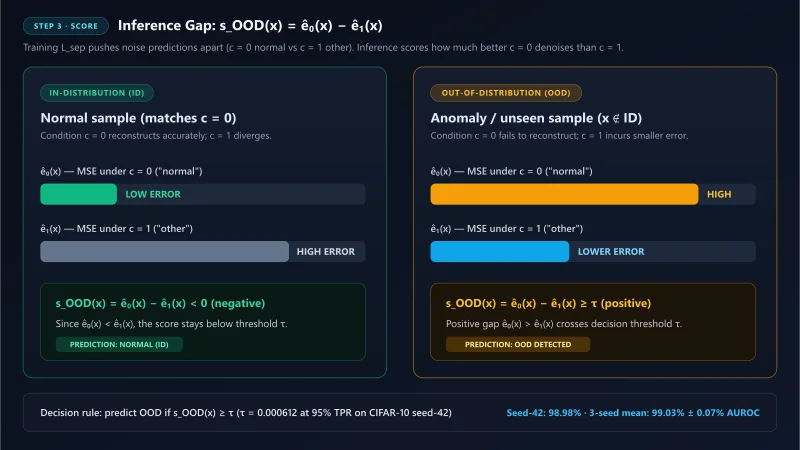
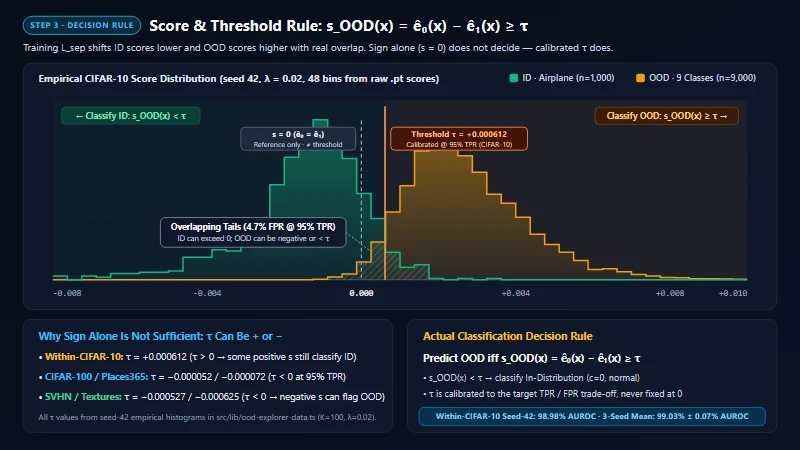
fix(research): clarify threshold decision rule and overlap across copy and diagrams

diff --git a/src/components/Research.tsx b/src/components/Research.tsx
@@ -155,18 +155,18 @@ const formulaVisuals: Array<{ previewSrc: string; src: string; width: number; he
     width: 800,
     height: 450,
     alt: {
-      en: 'Inference score diagram s_OOD(x) = e_0(x) - e_1(x) comparing c=0 and c=1 reconstruction error',
-      de: 'Inferenz-Score-Diagramm s_OOD(x) = e_0(x) - e_1(x) aus dem Rekonstruktionsfehler-Vergleich',
-      fr: "Diagramme du score d'inférence s_OOD(x) = e_0(x) - e_1(x) comparant les erreurs c=0 et c=1",
-      es: 'Diagrama de puntuación s_OOD(x) = e_0(x) - e_1(x) comparando errores de reconstrucción',
-      ar: 'مخطط درجة الاستدلال s_OOD(x) = e_0(x) - e_1(x) لمقارنة أخطاء إعادة البناء',
+      en: 'Empirical score distributions and threshold decision rule s_OOD(x) = e_0(x) - e_1(x) >= tau showing ID/OOD overlap and positive or negative calibrated thresholds tau',
+      de: 'Empirische Score-Verteilungen und Schwellenregel s_OOD(x) = e_0(x) - e_1(x) >= tau mit Überlappung sowie positiven oder negativen Schwellenwerten tau',
+      fr: 'Distributions empiriques et règle de décision s_OOD(x) = e_0(x) - e_1(x) >= tau montrant le chevauchement ID/OOD et des seuils tau positifs ou négatifs',
+      es: 'Distribuciones empíricas y regla de decisión s_OOD(x) = e_0(x) - e_1(x) >= tau con solapamiento y umbrales tau positivos o negativos',
+      ar: 'توزيعات الدرجات التجريبية وقاعدة القرار s_OOD(x) = e_0(x) - e_1(x) >= tau مع توضيح التداخل وإمكانية كون العتبة tau موجبة أو سالبة',
     },
     caption: {
-      en: 'Step 3: inference score s_OOD(x) = e_0(x) - e_1(x) flags OOD when >= threshold tau',
-      de: 'Schritt 3: Inferenz-Score s_OOD(x) = e_0(x) - e_1(x) erkennt OOD ab Schwelle tau',
-      fr: 'Étape 3 : le score s_OOD(x) = e_0(x) - e_1(x) signale OOD lorsque >= seuil tau',
-      es: 'Paso 3: la puntuación s_OOD(x) = e_0(x) - e_1(x) detecta OOD si >= umbral tau',
-      ar: 'الخطوة 3: درجة الاستدلال s_OOD(x) = e_0(x) - e_1(x) تكشف OOD عند تجاوز العتبة tau',
+      en: 'Step 3: score s_OOD(x) = e_0(x) - e_1(x) flags OOD when >= calibrated threshold tau (may be + or -)',
+      de: 'Schritt 3: s_OOD(x) = e_0(x) - e_1(x) erkennt OOD ab kalibrierter Schwelle tau (+ oder - möglich)',
+      fr: 'Étape 3 : s_OOD(x) = e_0(x) - e_1(x) signale OOD si >= seuil calibré tau (+ ou - possible)',
+      es: 'Paso 3: s_OOD(x) = e_0(x) - e_1(x) detecta OOD si >= umbral calibrado tau (+ o -)',
+      ar: 'الخطوة 3: تصنّف s_OOD(x) = e_0(x) - e_1(x) العينة كـ OOD عند >= العتبة المعايرة tau (موجبة أو سالبة)',
     },
   },
 ]
@@ -229,18 +229,24 @@ const copy = {
   },
   formulaLabel: { en: 'Novel contribution - separation loss', de: 'Neuer Beitrag - Separation Loss', fr: 'Contribution nouvelle - separation loss', es: 'Contribución nueva - separation loss', ar: 'المساهمة الجديدة - خسارة الفصل' },
   plainIdea: {
-    en: 'Plain idea: train with L_sep so c=0 ("normal") and c=1 ("other") disagree, then score s_OOD(x) = e_0(x) - e_1(x). ID inputs reconstruct better under c=0 (negative score); OOD inputs have higher e_0 than e_1 (score >= tau).',
-    de: 'Grundidee: Training mit L_sep trennt c=0 („normal“) und c=1 („andere“); bei Inferenz misst s_OOD(x) = e_0(x) - e_1(x) die Differenz. ID liefert e_0 < e_1 (negativ); OOD liefert e_0 > e_1 (>= tau).',
-    fr: "Idée clé : L_sep sépare c=0 (« normal ») et c=1 (« autre ») à l'entraînement ; à l'inférence, s_OOD(x) = e_0(x) - e_1(x) compare les erreurs. ID donne e_0 < e_1 (négatif) ; OOD donne e_0 > e_1 (>= tau).",
-    es: 'Idea clave: L_sep separa c=0 («normal») y c=1 («otras») al entrenar; en inferencia s_OOD(x) = e_0(x) - e_1(x) compara los errores. En ID resulta negativo; en OOD e_0 > e_1 (>= tau).',
-    ar: 'الفكرة باختصار: تفصل خسارة التدريب L_sep بين c=0 (طبيعي) وc=1 (غيره)، وعند الاستدلال تقيس s_OOD(x) = e_0(x) - e_1(x) الفرق. للبيانات الطبيعية e_0 < e_1 (سالب)، وللشاذة e_0 > e_1 (>= tau).',
+    en: 'Plain idea: train with L_sep so c=0 ("normal") and c=1 ("other") diverge, shifting ID scores e_0(x) - e_1(x) lower and OOD scores higher with some overlap. At inference, classify as OOD when s_OOD(x) = e_0(x) - e_1(x) >= tau (calibrated threshold tau may be positive or negative).',
+    de: 'Grundidee: Training mit L_sep trennt c=0 („normal“) und c=1 („andere“), sodass ID-Scores e_0(x) - e_1(x) niedriger und OOD-Scores höher liegen (bei möglicher Überlappung). Bei Inferenz gilt OOD wenn s_OOD(x) = e_0(x) - e_1(x) >= tau (das kalibrierte tau kann positiv oder negativ sein).',
+    fr: "Idée clé : L_sep éloigne c=0 (« normal ») et c=1 (« autre »), décalant les scores ID e_0(x) - e_1(x) vers le bas et les scores OOD vers le haut, avec un certain chevauchement. À l'inférence, un exemple est classé OOD si s_OOD(x) = e_0(x) - e_1(x) >= tau (le seuil calibré tau peut être positif ou négatif).",
+    es: 'Idea clave: L_sep separa c=0 («normal») y c=1 («otras»), desplazando los puntajes ID e_0(x) - e_1(x) hacia abajo y los OOD hacia arriba, con cierto solapamiento. En inferencia se clasifica como OOD cuando s_OOD(x) = e_0(x) - e_1(x) >= tau (el umbral calibrado tau puede ser positivo o negativo).',
+    ar: 'الفكرة باختصار: تدريب L_sep يفصل بين c=0 (طبيعي) وc=1 (غيره)، فتنزاح درجات البيانات الطبيعية e_0(x) - e_1(x) نحو قيم أقل ودرجات OOD نحو قيم أعلى مع بقاء بعض التداخل. عند الاستدلال، تُصنَّف العينة كـ OOD إذا كان s_OOD(x) = e_0(x) - e_1(x) >= tau (وقد تكون العتبة المعايرة tau موجبة أو سالبة).',
   },
   step1: { en: 'Learn to denoise', de: 'Entrauschen lernen', fr: 'Apprendre à dénoiser', es: 'Aprender a limpiar ruido', ar: 'تعلم إزالة الضوضاء' },
   step1Text: { en: 'Denoise x under c=0 (normal) and c=1 (other).', de: 'Entrausche x unter c=0 (normal) und c=1 (andere).', fr: 'Débruiter x sous c=0 (normal) et c=1 (autre).', es: 'Limpiar ruido de x bajo c=0 (normal) y c=1 (otras).', ar: 'إزالة الضوضاء تحت الشرطين c=0 وc=1.' },
   step2: { en: 'Push explanations apart', de: 'Erklärungen trennen', fr: 'Éloigner les explications', es: 'Separar explicaciones', ar: 'إبعاد التفسيرات' },
   step2Text: { en: 'Maximize distance between c=0 and c=1 noise predictions during training (L_sep).', de: 'Maximiere im Training den Abstand zwischen den Vorhersagen c=0 und c=1 (L_sep).', fr: "Maximiser l'écart entre les prédictions c=0 et c=1 à l'entraînement (L_sep).", es: 'Maximizar la distancia entre predicciones c=0 y c=1 al entrenar (L_sep).', ar: 'زيادة المسافة بين تنبؤات الضوضاء لـ c=0 وc=1 أثناء التدريب (L_sep).' },
   step3: { en: 'Score s_OOD(x) = e_0 - e_1', de: 'Score s_OOD(x) = e_0 - e_1', fr: 'Score s_OOD(x) = e_0 - e_1', es: 'Score s_OOD(x) = e_0 - e_1', ar: 'الدرجة s_OOD(x) = e_0 - e_1' },
-  step3Text: { en: 'Flag OOD when e_0(x) exceeds e_1(x): s_OOD(x) = e_0(x) - e_1(x) >= tau.', de: 'Erkenne OOD wenn e_0(x) größer als e_1(x) ist: s_OOD(x) = e_0(x) - e_1(x) >= tau.', fr: 'Signaler OOD quand e_0(x) dépasse e_1(x) : s_OOD(x) = e_0(x) - e_1(x) >= tau.', es: 'Detectar OOD cuando e_0(x) supera a e_1(x): s_OOD(x) = e_0(x) - e_1(x) >= tau.', ar: 'كشف OOD عندما يتجاوز e_0(x) قيمة e_1(x): s_OOD(x) = e_0(x) - e_1(x) >= tau.' },
+  step3Text: {
+    en: 'Compare s_OOD(x) = e_0(x) - e_1(x) against calibrated threshold tau (which may be + or -, as distributions overlap): flag OOD when s_OOD(x) >= tau.',
+    de: 'Vergleiche s_OOD(x) = e_0(x) - e_1(x) mit der kalibrierten Schwelle tau (kann + oder - sein, da Verteilungen überlappen): OOD ab s_OOD(x) >= tau.',
+    fr: 'Comparer s_OOD(x) = e_0(x) - e_1(x) au seuil calibré tau (+ ou - possible car les distributions se chevauchent) : OOD si s_OOD(x) >= tau.',
+    es: 'Comparar s_OOD(x) = e_0(x) - e_1(x) con el umbral calibrado tau (puede ser + o -, pues hay solapamiento): OOD si s_OOD(x) >= tau.',
+    ar: 'قارن s_OOD(x) = e_0(x) - e_1(x) مع العتبة المعايرة tau (قد تكون + أو - مع وجود تداخل): تُعد العينة OOD عندما s_OOD(x) >= tau.',
+  },
   totalLoss: { en: 'Training loss L_total', de: 'Trainingsverlust L_total', fr: "Perte d'entraînement L_total", es: 'Pérdida de entrenamiento L_total', ar: 'خسارة التدريب L_total' },
   denoiseLoss: { en: 'L_denoise (MSE)', de: 'L_denoise (MSE)', fr: 'L_denoise (MSE)', es: 'L_denoise (MSE)', ar: 'L_denoise (MSE)' },
   sepLoss: { en: 'lambda * L_sep  |  Inference: s_OOD(x) = e_0(x) - e_1(x)', de: 'lambda * L_sep  |  Inferenz: s_OOD(x) = e_0(x) - e_1(x)', fr: 'lambda * L_sep  |  Inférence : s_OOD(x) = e_0(x) - e_1(x)', es: 'lambda * L_sep  |  Inferencia: s_OOD(x) = e_0(x) - e_1(x)', ar: 'lambda * L_sep  |  الاستدلال: s_OOD(x) = e_0(x) - e_1(x)' },

diff --git a/src/components/OodDemo.tsx b/src/components/OodDemo.tsx
@@ -380,7 +380,7 @@ export default function OodDemo() {
           </div>
           <div>
             <strong style={{ color: 'var(--cd-success)' }}>Eq. 3.3 (OOD Score):</strong>{' '}
-            s_OOD(x) = ê₀(x) − ê₁(x) &gt; τ ⇒ OOD
+            s_OOD(x) = ê₀(x) − ê₁(x) ≥ τ ⇒ OOD
           </div>
         </div>
       </div>
@@ -886,7 +886,10 @@ export default function OodDemo() {
                   c=0: <strong>{activeTimestep.idC0Mean.toFixed(4)}</strong> · c=1: <strong>{activeTimestep.idC1Mean.toFixed(4)}</strong>
                 </div>
                 <div style={{ fontFamily: 'var(--font-mono)', fontSize: 11, color: 'var(--cd-success)', marginTop: 2 }}>
-                  ê₀ − ê₁ = {(activeTimestep.idC0Mean - activeTimestep.idC1Mean).toFixed(5)} (ID &lt; 0)
+                  Mean ê₀ − ê₁ = {(() => {
+                    const diff = activeTimestep.idC0Mean - activeTimestep.idC1Mean
+                    return `${diff >= 0 ? '+' : ''}${diff.toFixed(5)}`
+                  })()}
                 </div>
               </div>
 
@@ -895,8 +898,11 @@ export default function OodDemo() {
                 <div style={{ fontFamily: 'var(--font-mono)', fontSize: 13, color: 'var(--cd-fg)', marginTop: 4 }}>
                   c=0: <strong>{activeTimestep.oodC0Mean.toFixed(4)}</strong> · c=1: <strong>{activeTimestep.oodC1Mean.toFixed(4)}</strong>
                 </div>
-                <div style={{ fontFamily: 'var(--font-mono)', fontSize: 11, color: '#f97316', marginTop: 2 }}>
-                  ê₀ − ê₁ = +{(activeTimestep.oodC0Mean - activeTimestep.oodC1Mean).toFixed(5)} (OOD &gt; 0)
+                <div style={{ fontFamily: 'var(--font-mono)', fontSize: 11, color: 'var(--cd-warn)', marginTop: 2 }}>
+                  Mean ê₀ − ê₁ = {(() => {
+                    const diff = activeTimestep.oodC0Mean - activeTimestep.oodC1Mean
+                    return `${diff >= 0 ? '+' : ''}${diff.toFixed(5)}`
+                  })()}
                 </div>
               </div>
 

diff --git a/specs/005-portfolio-credibility-and-mobile/IMPLEMENTATION-REPORT.md b/specs/005-portfolio-credibility-and-mobile/IMPLEMENTATION-REPORT.md
@@ -49,11 +49,10 @@
 
 ### Priority 4 — Research Previews & Verified Score Convention
 - **Verified thesis score convention**:
-  - Confirmed in `public/Mohammed_Ahmed_Thesis_Diffusion_OOD_Detection.pdf` (Eq. 3.3, pp. 44–45, 57–59) and `src/lib/ood-explorer-data.ts` that `s_OOD(x) = ê₀(x) - ê₁(x)` with `c=0` (`normal`/`airplane`) and `c=1` (`other`/`rest`). ID samples yield lower `ê₀` than `ê₁` (negative score); OOD samples yield higher `ê₀` than `ê₁` (`s_OOD(x) >= τ` predicts OOD, `τ = 0.000612` at 95% TPR on CIFAR-10 seed-42).
+  - Confirmed in `public/Mohammed_Ahmed_Thesis_Diffusion_OOD_Detection.pdf` (Eq. 3.3, pp. 44–45, 57–59) and `src/lib/ood-explorer-data.ts` that `s_OOD(x) = ê₀(x) - ê₁(x)` with `c=0` (`normal`/`airplane`) and `c=1` (`other`/`rest`). Training with `L_sep` shifts ID scores lower and OOD scores higher with real distribution overlap (`4.7%` FPR at `95%` TPR on Within-CIFAR-10 seed 42; `14.8%`–`30.1%` across external benchmarks). Inference classifies OOD when `s_OOD(x) >= τ`, where the calibrated threshold `τ` may be positive or negative (`+0.000612` on Within-CIFAR-10, `-0.000052` on CIFAR-100, `-0.000072` on Places365, `-0.000290` on FashionMNIST, `-0.000625` on Textures, `-0.000527` on SVHN at `95%` TPR). Also aligned `src/components/OodDemo.tsx` (`>= τ` rule and signed cohort means on Tab 2).
 - **Accurate Step 3 graphic & lightweight previews**:
-  - Generated `public/research/separation-gap-score.png` (`1672×941`, `67,830` bytes) replacing the inaccurate direction in the prior Step 3 asset (`separation-gap-clean.png` retained untouched in `public/research/`).
-  - Generated `800×450` WebP inline previews (`separation-denoise-preview.webp` `27,286` B, `separation-apart-preview.webp` `15,368` B, `separation-gap-preview.webp` `28,452` B; `71,106` bytes combined vs. `4.22 MB` original inline PNGs).
-  - Updated `src/components/Research.tsx` with `loading="lazy"`, `decoding="async"`, explicit intrinsic `width`/`height`, inline `previewSrc` tiles, full-resolution lightbox `src` loaded only on click, and updated 5-locale copy for `plainIdea`, `step1Text`, `step2Text`, `step3`, `step3Text`, and `sepLoss`.
+  - Updated `public/research/separation-gap-score.png` (`1672×941`) and `public/research/separation-gap-preview.webp` (`800×450`) to plot the empirical CIFAR-10 seed-42 ID/OOD histograms, highlight distribution overlap, distinguish `s = 0` from calibrated `τ`, and show both `+τ` and `−τ` operating points (`separation-gap-clean.png` retained untouched in `public/research/`).
+  - Updated `src/components/Research.tsx` with `loading="lazy"`, `decoding="async"`, explicit intrinsic `width`/`height`, inline `previewSrc` tiles (`separation-denoise-preview.webp`, `separation-apart-preview.webp`, `separation-gap-preview.webp`), full-resolution lightbox `src` loaded only on click, and updated 5-locale copy for `alt`, `caption`, `plainIdea`, and `step3Text`.
 
 ### Priority 5 — Recruiter Positioning & `1200×630` Share Cards
 - **Recruiter positioning**:
@@ -87,26 +86,26 @@
   - `0` horizontal overflows, expected per-route `og:image`/`twitter:image`, mobile hamburger drawer open cleanly (`overflowX: false`), Chatbot starter chips free of Faultrix (`0` Faultrix hits), and interactive `#ood-explorer` 3-tab check (`check-ood-explorer.mjs` at `375px` light theme) with `0` horizontal overflow.
 - Lazy image & lightbox behavior:
   - Initial load requested only `/headshot.jpg` and `/icon.svg`.
-  - Scrolling to `#research` requested only the 3 `.webp` previews (`71,106` B total) and CIFAR charts; **0** full-resolution formula PNGs loaded prior to interaction.
-  - Clicking Step 3 opened `.cd-lightbox-inner` and loaded `/research/separation-gap-score.png` (`1672×941`, `67,830` B); pressing `Escape` closed the lightbox and returned focus to `.cd-rfc-visual-button`.
-- Reduced motion (`prefers-reduced-motion: reduce`): `hiddenCount: 0` across all 35 `.reveal` elements.
+  - Scrolling to `#research` requested only the 3 `.webp` previews (`27,286` B + `15,368` B + `48,100` B = `90,754` B total) and CIFAR charts; **0** full-resolution formula PNGs loaded prior to interaction.
+  - Clicking Step 3 opened `.cd-lightbox-inner` and loaded `/research/separation-gap-score.png` (`1672×941`, `238,587` B); pressing `Escape` closed the lightbox and returned focus to `.cd-rfc-visual-button`.
+- Reduced motion (`prefers-reduced-motion: reduce`): `hiddenCount: 0` on `.reveal` elements.
 - No-JS (`setScriptExecutionDisabled(true)`): Contact section and all 8 Contact links rendered with `opacity: 1` (`hiddenLinkCount: 0`) and `<noscript>` `.reveal` fallback stylesheet present.
 - Console / runtime errors: **0** (note: static `out/` crawl logs expected 404s on client-side Next.js RSC prefetch `__next.*.txt` probes when served without rewrite; 0 broken CSS/JS/font/image assets).
 - Visual inspection of screenshots verified crisp dark/light contrast, desktop & 375px hero wrapping, Arabic RTL timeline alignment & `Ahmed.` brand isolation, interactive `#ood-explorer` light-mode contrast, and the Step 3 lightbox diagram.
 
 ### Mobile Lighthouse Comparison (Comparable Runs on `http://127.0.0.1:4173/`)
 
-| Metric / Audit | Before (Baseline) | After RFC 005 (Run 1) | After RFC 005 (Run 2) |
+| Metric / Audit | Before (Baseline) | After RFC 005 (Prior Runs 1/2) | After Step 3 Diagram Update |
 | --- | --- | --- | --- |
-| Performance | 67 | 99 | 99 |
-| Accessibility | 93 | 100 | 100 |
-| Best Practices | 96 | 100 | 100 |
-| SEO | 100 | 100 | 100 |
-| FCP | 1.4 s | 1.5 s | 1.5 s |
-| LCP | 10.2 s | 1.5 s | 1.5 s |
-| CLS | 0 | 0 | 0 |
-| TBT | 0 ms | 20 ms | 10 ms |
-| Total Byte Weight | 5,526,168 B | 1,721,668 B | 1,721,668 B |
+| Performance | 67 | 99 / 99 | 99 |
+| Accessibility | 93 | 100 / 100 | 100 |
+| Best Practices | 96 | 100 / 100 | 100 |
+| SEO | 100 | 100 / 100 | 100 |
+| FCP | 1.4 s | 1.5 s / 1.5 s | 1.5 s |
+| LCP | 10.2 s | 1.5 s / 1.5 s | 1.5 s |
+| CLS | 0 | 0 / 0 | 0 |
+| TBT | 0 ms | 20 ms / 10 ms | 20 ms |
+| Total Byte Weight | 5,526,168 B | 1,721,668 B / 1,721,668 B | 1,723,182 B |
 | `color-contrast` violations | 139 items (score 0) | 0 items (score 1) | 0 items (score 1) |
 
 ## 3. Unresolved Items & Owner Decisions Needed
